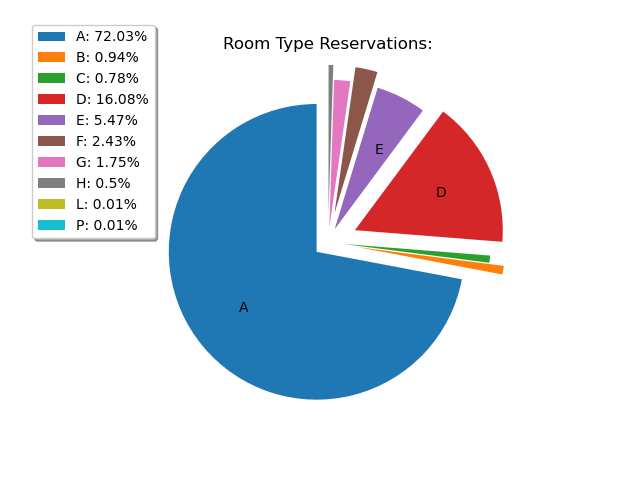
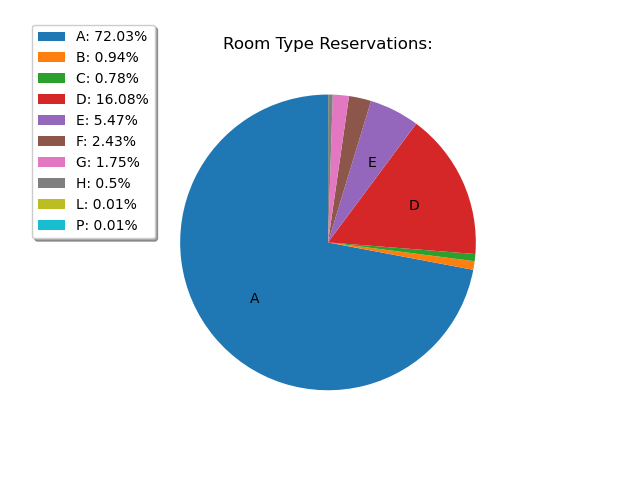
Finished

diff --git a/functions.py b/functions.py
@@ -1,15 +1,15 @@
 import pandas as pd
 import numpy as np
 import matplotlib.pyplot as plt
+from matplotlib import dates as mpldates
 from scipy.stats import linregress
 
 def readFile(fileName):
     global csvFile
     global df
-    #df = pd.read_csv(fileName, parse_dates={'date':['arrival_date_year','arrival_date_month','arrival_date_day_of_month']}, keep_date_col=True, index_col='date')
     df = pd.read_csv(fileName)
-    df['date'] = pd.to_datetime(str(df.get('arrival_date_year')[1])+'/'+(df.get('arrival_date_month')[1])+'/'+f"{int(df.get('arrival_date_day_of_month')[1]):02d}", format='%Y/%B/%d')
-    #df['date'] = pd.to_datetime(str(df['arrival_date_year'].values[1]), format='%Y')
+    df['date'] = df['arrival_date_year'].astype(str) + '/' + df['arrival_date_month'].astype(str) + '/' + df['arrival_date_day_of_month'].astype(str)
+    df['date'] = pd.to_datetime(df['date'], format='%Y/%B/%d')
     df = df.set_index('date')
     csvFile = df.to_dict(orient='records')
 
@@ -123,9 +123,14 @@ def calcSeasonStats():
     totalSeasonDict['Summer'] = totalMonthDict['June'] + totalMonthDict['July'] + totalMonthDict['August'] 
     totalSeasonDict['Autumn'] = totalMonthDict['September'] + totalMonthDict['October'] + totalMonthDict['November'] 
 
+    plt.pie(list(totalSeasonDict.values()), startangle=-90, labels=list(totalSeasonDict.keys()), explode=[0,0,0.1,0], shadow=True, autopct='%0.0d%%')
+
+    '''
     plt.plot(list(totalSeasonDict.keys()), list(totalSeasonDict.values()), marker='.', color='Blue')
     plt.fill_between(list(totalSeasonDict.keys()), list(totalSeasonDict.values()), color='blue', alpha=.1)
     plt.grid()
+    '''
+
     plt.title("Reservations Per Season:")
     plt.savefig(".seasonStats.png")
     plt.close()
@@ -148,7 +153,7 @@ def calcRoomTypeStats():
         roomTypeDict[lines['reserved_room_type']] += 1
         counter += 1
     plt.tight_layout()
-    plt.pie(list(roomTypeDict.values()), startangle=90, explode=[0.1,0.2,0.1,0.2,0.1,0.2,0.1,0.2,0.1,0.2], labels = ["A", "", "", "D", "E", "", "", "", "", ""], labeldistance=.6)
+    plt.pie(list(roomTypeDict.values()), startangle=90, labels = ["A", "", "", "D", "E", "", "", "", "", ""], labeldistance=.6)
     
     labels = [f'{l}: {round(s/counter*100, 2)}%' for l, s in zip(list(roomTypeDict.keys()),roomTypeDict.values())]
     plt.legend(shadow=True, labels=labels, bbox_to_anchor=(0.05,0.8), loc='center right')
@@ -179,30 +184,25 @@ def calcVisitorTypeStats():
 def calcTrend():
     #calc total Reservation for each month of each year
     df['reservations'] = 1  #Add a new collumn with the constant 1.
-    print("test1")
     resampledDF = df.resample('ME').sum()['reservations'] #Make a new data frame with only each month and the total number of reservations for this month = sum of reservations = 1+1+...+1
-    
-    print("test2")
     #x = resampledDF.iloc[:,0]
     x = range(26)
-    #y = resampledDF.tolist()
-    print('ResampledDf:')
-    print(resampledDF)
+    y = resampledDF.tolist()
     #y = list(resampledDF.get(1))
-    print("test3")
-    print(y)
-    '''
+    #print("test3")
+    #print(y)
     
     slope, intercept, r_value, p_value, std_err = linregress(x,y)
-    print("test4")
     regression_line = slope * x + intercept
+    
+    resampledDF = resampledDF.to_frame()
 
+    resampledDF['Trend'] = regression_line
     resampledDF.plot()
-    plt.plot(list(resampledDF.index), regression_line)
+    #plt.plot(resampledDF.index.to_pydatetime(), regression_line)
     plt.grid()
-    plt.legend(["Reservations", "Trend"])
+    plt.legend()
     plt.title("Trend of Reservations over time:")
     plt.tight_layout()
     plt.savefig(".trend.png")
     plt.close() 
-    '''

diff --git a/QtUi.py b/QtUi.py
@@ -46,8 +46,9 @@ class MyWidget(QtWidgets.QWidget):
         outerLayout.addLayout(outputLayout)
         
         def readFileButton_func():
-            ConsoleText.setText("Reading File...")
+            ConsoleText.setText("Reading File... Please Wait.")
             ConsoleText.repaint()
+            QtWidgets.QApplication.processEvents()
             try:
                 fun.readFile('hotel_booking.csv')
             except FileNotFoundError:
@@ -118,6 +119,7 @@ class MyWidget(QtWidgets.QWidget):
         def calcTrendButton_func():
             ConsoleText.setText("Calculating Trend... Please Wait.")
             ConsoleText.repaint()
+            QtWidgets.QApplication.processEvents()
             try:
                 fun.calcTrend()
             except NameError:
